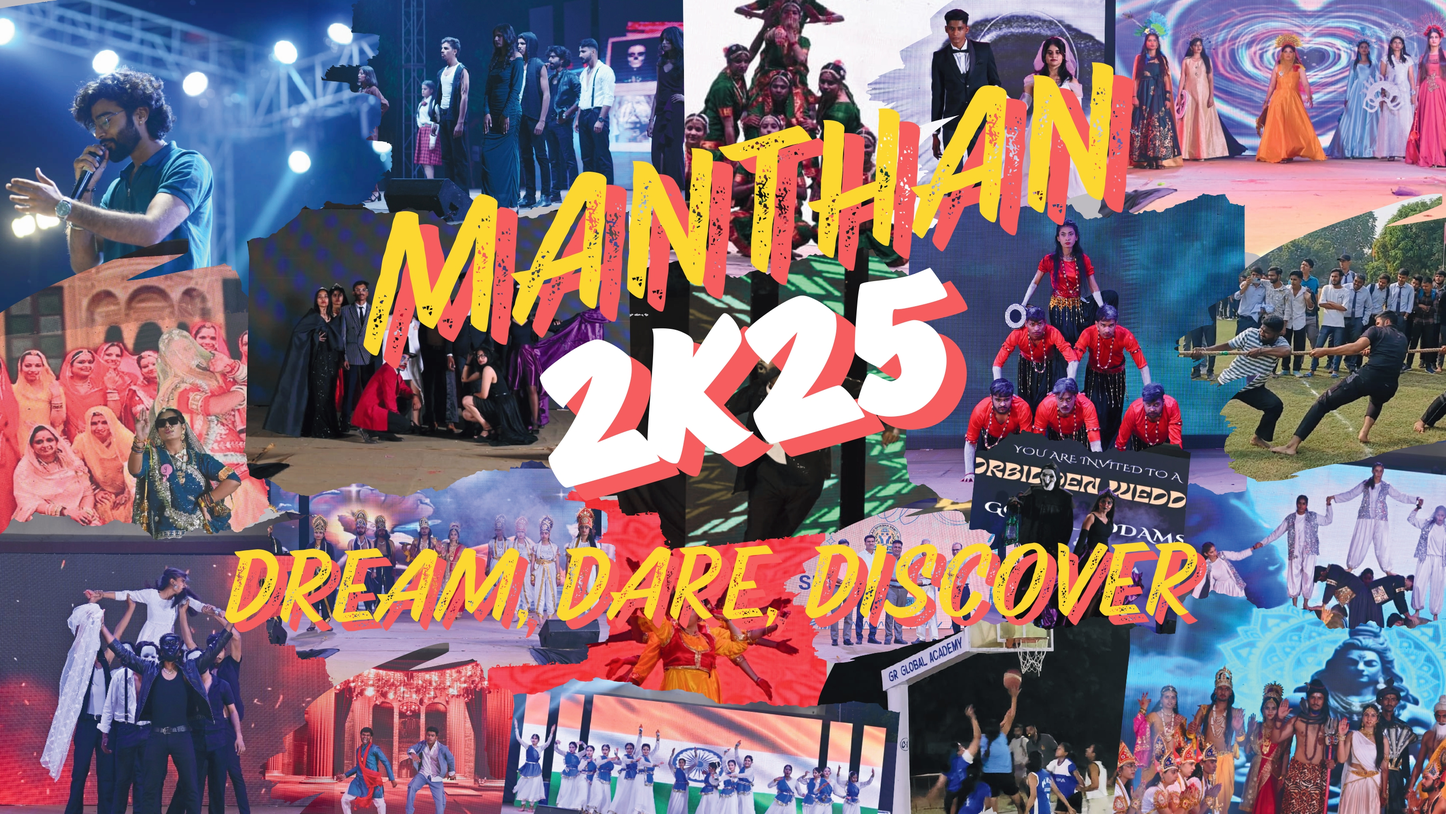
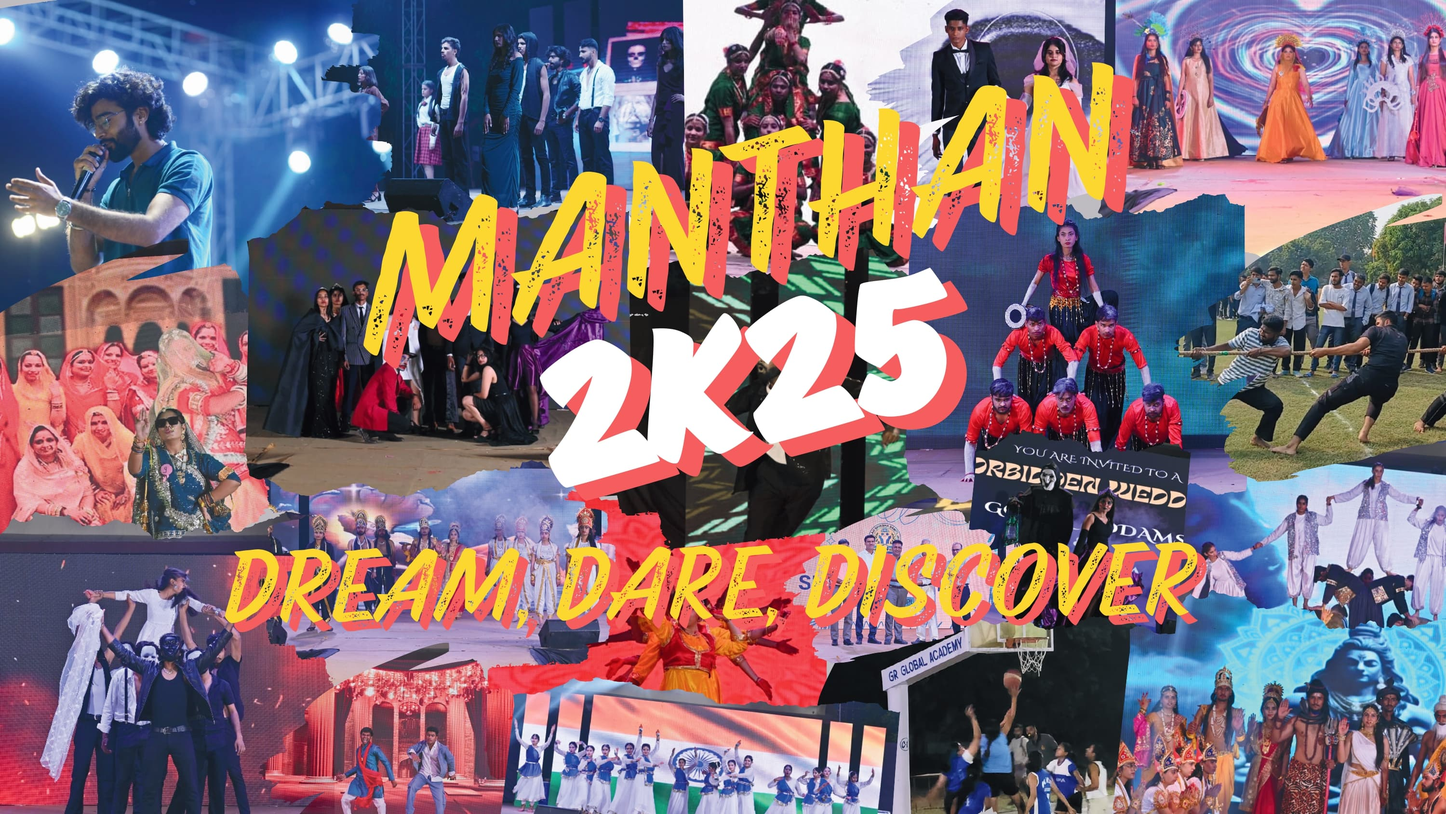
okk

diff --git a/Frontend/src/Data/Events.js b/Frontend/src/Data/Events.js
@@ -11,7 +11,7 @@ const events = [{
     description:
         "Feel the excitement of Basketball as players dribble, pass, and shoot to outscore their opponents with precision and teamwork.",
     prizes: "₹15,000 + goodies",
-    poster: "/images/Beige Red Black Illustrative Basketball Tournament Banner .png",
+    poster: "/images/Beige Red Black Illustrative Basketball Tournament Banner .jpg",
     regFee: 1800,
 }
     ,
@@ -28,7 +28,7 @@ const events = [{
     description:
         "Experience the excitement of cricket as teams battle it out with strategy, passion, and unstoppable energy on the field.",
     prizes: "₹15,000 + goodies",
-    poster: "/images/cricekt poster.png",
+    poster: "/images/cricekt poster.jpg",
     regFee: 1100,
 },
 {
@@ -44,7 +44,7 @@ const events = [{
     description:
         "Enjoy the challenge of Volleyball where teams hit the ball over the net, combining agility, strategy, and coordination to win points.",
     prizes: "₹15,000 + goodies",
-    poster: "/images/volleybol poster.png",
+    poster: "/images/volleybol poster.jpg",
     regFee: 1800,
 },
 {
@@ -76,7 +76,7 @@ const events = [{
     description:
         "Experience the thrill of Box Cricket as teams compete with strategy, skill, and energy in a small enclosed arena.",
     prizes: "₹15,000 + goodies",
-    poster: "/images/Box cricket poster.png",
+    poster: "/images/Box cricket poster.jpg",
     regFee: 1100,
 },
 {
@@ -92,7 +92,7 @@ const events = [{
     description:
         "Experience the excitement of Kabaddi as players showcase strength, strategy, and agility while raiding and defending on the mat.",
     prizes: "₹15,000 + goodies",
-    poster: "/images/Kabaddi poster.png",
+    poster: "/images/Kabaddi poster.jpg",
     regFee: 1800,
 },
 {
@@ -108,7 +108,7 @@ const events = [{
     description:
         "Dive into the world of Chess where players plan every move with precision, foresight, and tactical brilliance to outsmart their opponent.",
     prizes: "₹15,000 + goodies",
-    poster: "/images/Chess Tournament Banner.png",
+    poster: "/images/Chess Tournament Banner.jpg",
     regFee: 800,
 },
 {
@@ -124,7 +124,7 @@ const events = [{
     description:
         "Dive into the world of Chess where players plan every move with precision, foresight, and tactical brilliance to outsmart their opponent.",
     prizes: "₹15,000 + goodies",
-    poster: "/images/hackathon poster.png",
+    poster: "/images/hackathon poster.jpg",
     regFee: 500,
 },
 {
@@ -156,7 +156,7 @@ const events = [{
     description:
         " Taste innovation as participants prepare delicious dishes without fire, blending art with flavor.",
     prizes: "₹15,000 + goodies",
-    poster: "/images/Fireless cooking poster.png",
+    poster: "/images/Fireless cooking poster.jpg",
     regFee: 100,
 },
 {
@@ -172,7 +172,7 @@ const events = [{
     description:
         " Witness budding entrepreneurs pitch bold ideas to impress the judges with innovation and business acumen.",
     prizes: "₹15,000 + goodies",
-    poster: "/images/shark tank poster.png",
+    poster: "/images/shark tank poster.jpg",
     regFee: 100,
 },
 {
@@ -188,7 +188,7 @@ const events = [{
     description:
         "Witness sharp minds debate passionately, defending their views with logic, wit, and confidence.",
     prizes: "₹15,000 + goodies",
-    poster: "/images/CLASH OF thoughts poster.png",
+    poster: "/images/CLASH OF thoughts poster.jpg",
     regFee: 100,
 },
 {
@@ -204,7 +204,7 @@ const events = [{
     description:
         "Feel the rhythm and energy as a solo dancer captivates the stage with graceful moves and raw passion .",
     prizes: "₹15,000 + goodies",
-    poster: "/images/Solo dance poster.png",
+    poster: "/images/Solo dance poster.jpg",
     regFee: 300,
 },
 {
@@ -220,7 +220,7 @@ const events = [{
     description:
         " Experience the power of coordination and creativity as groups light up the stage with vibrant performances.",
     prizes: "₹15,000 + goodies",
-    poster: "/images/Group dance poster.png",
+    poster: "/images/Group dance poster.jpg",
     regFee: 1100,
 },
 {
@@ -236,7 +236,7 @@ const events = [{
     description:
         " Enjoy the chemistry and synchronization of two dancers weaving emotions into their performance.",
     prizes: "₹15,000 + goodies",
-    poster: "/images/duet dance poster.png",
+    poster: "/images/duet dance poster.jpg",
     regFee: 500,
 },
 {
@@ -252,7 +252,7 @@ const events = [{
     description:
         "Watch elegance and charisma unfold as participants walk the ramp with poise and personality.",
     prizes: "₹15,000 + goodies",
-    poster: "/images/RAMP WALK poster.png",
+    poster: "/images/RAMP WALK poster.jpg",
     regFee: 1100,
 },
 {
@@ -268,7 +268,7 @@ const events = [{
     description:
         "Dive into the world of Chess where players plan every move with precision, foresight, and tactical brilliance to outsmart their opponent.",
     prizes: "₹15,000 + goodies",
-    poster: "/images/Singing poster.png",
+    poster: "/images/Singing poster.jpg",
     regFee: 100,
 }
 ];

diff --git a/Frontend/src/screen/Home.jsx b/Frontend/src/screen/Home.jsx
@@ -2,10 +2,10 @@ import React, { useMemo, useState, useRef, useEffect } from "react";
 import Navbar from "../components/Navbar";
 import Footer from "../components/Footer";
 import mainImage from "../assets/danger_20250825_204323_0000_page-0001.jpg";
-import SportsPoster from "../assets/Sports-Poster.png";
-import CulturalPoster from "../assets/Cultural-Poster.png";
-import EduFunPoster from "../assets/EduFun-Poster.png";
-import InnovationPoster from "../assets/Innovation-Poster.png";
+import SportsPoster from "../assets/Sports-Poster.jpg";
+import CulturalPoster from "../assets/Cultural-Poster.jpg";
+import EduFunPoster from "../assets/EduFun-Poster.jpg";
+import InnovationPoster from "../assets/Innovation-Poster.jpg";
 
 const team = [
   {
@@ -206,10 +206,10 @@ export default function Manthan() {
         <h2 className="text-3xl md:text-5xl font-orbitron font-bold text-center mb-10 bg-gradient-to-br from-[#F69D25] to-[#9529B1] bg-clip-text text-transparent leading-[1.1]">Our Team</h2>
         <div className="space-y-6 max-w-7xl mx-auto">
           <div className="w-full bg-black/30 rounded-2xl shadow-[0_0_25px_rgba(255,200,0,0.3)] p-6 flex flex-col justify-center items-center">
-            <h3 className="text-2xl font-semibold mb-2 text-[#F69D25]">{team[0].title}</h3>
-            <ul className="list-disc pl-6 text-slate-300">
+            <h3 className="text-3xl font-semibold mb-2 text-[#F69D25]">{team[0].title}</h3>
+            <ul className="list-disc text-slate-300">
               {team[0].members.map((m, i) => (
-                <li key={i}>{m}</li>
+                <li className="text-lg list-none" key={i}>{m}</li>
               ))}
             </ul>
           </div>
@@ -283,7 +283,7 @@ function Faq({ q, a }) {
   return (
     <div className="rounded-2xl p-5 bg-black/10 shadow-[0_0_25px_rgba(255,200,0,0.3)]">
       <div className="font-medium text-lg text-[#F69D25]">{q}</div>
-      <p className="text-sm text-slate-600 mt-1">{a}</p>
+      <p className="text-sm text-slate-300 mt-1">{a}</p>
     </div>
   );
 }

diff --git a/Frontend/src/components/Footer.jsx b/Frontend/src/components/Footer.jsx
@@ -46,11 +46,14 @@ const Footer = () => {
                     {/* LEFT SIDE */}
                     <div className="p-8 flex flex-col items-start justify-start">
                         <div className="flex items-center space-x-6">
-                            <img
-                                src={logo}
-                                alt="Logo"
-                                className="w-36 h-36 object-contain"
-                            />
+                            <Link to="https://sbss.ac.in/" target='_blank' rel='noreferrer'>
+                                <img
+                                    src={logo}
+                                    alt="Logo"
+                                    className="w-40 h-40 object-contain"
+                                    loading="lazy"
+                                />
+                            </Link>
                             <h1 className="text-2xl md:text-3xl font-bold font-orbitron bg-gradient-to-br from-[#F69D25] to-[#9529B1] bg-clip-text text-transparent leading-[1.1]">
                                 Sri Balaji Shiksha Samiti, Jaipur
                             </h1>
@@ -60,7 +63,7 @@ const Footer = () => {
                             <h2 className="text-lg font-semibold mb-1 text-[#F69D25]">Have Questions?</h2>
                             <p className="flex items-center space-x-2">
                                 <Mail className="w-5 h-5 text-[#F69D25]" />
-                                <span>support@manthan2k25.com</span>
+                                <span><a href='mailto:manthan2025@sbss.ac.in?subject=Event%20Related%20Query'>manthan2025@sbss.ac.in</a></span>
                             </p>
                         </div>
                     </div>

diff --git a/Frontend/src/screen/Events.jsx b/Frontend/src/screen/Events.jsx
@@ -3,10 +3,7 @@ import { Link } from "react-router-dom";
 import { useNavigate } from "react-router-dom";
 import Navbar from "../components/Navbar";
 import Footer from '../components/Footer';
-import tempBanner from '../assets/Beige Red Black Illustrative Basketball Tournament Banner .png';
-// import data from '../Data/events.js';
 
-// console.log(data);
 import events from '../Data/Events.js';
 console.log(events);
 

diff --git a/Frontend/index.html b/Frontend/index.html
@@ -3,7 +3,7 @@
 
 <head>
   <meta charset="UTF-8" />
-  <link rel="icon" type="image/svg+xml" href="./src/assets/urlLogo.png" />
+  <link rel="icon" type="image/svg+xml" href="./src/assets/logo_sbss.png" />
   <meta name="viewport" content="width=device-width, initial-scale=1.0" />
   <title>MANTHAN'25</title>
   <link rel="stylesheet" href="https://unpkg.com/@highlightjs/cdn-assets@11.9.0/styles/nord.min.css" />
